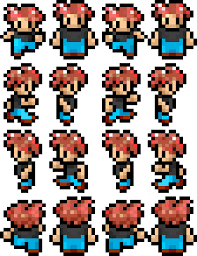
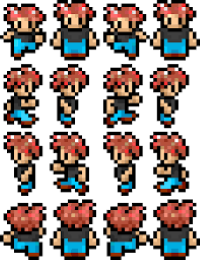
Drill 5 제출 (2017180011 박정환)

diff --git a/move_my_character_with_key.py b/move_my_character_with_key.py
@@ -52,8 +52,8 @@ while walking:
     update_canvas()
     handle_events()
 
-    if dir_x != 0 or dir_y != 0:
-        frame = (frame + 1) % 4
+    # if dir_x != 0 or dir_y != 0:  idle 애니메이션
+    frame = (frame + 1) % 4
 
     x += dir_x * 5
     y += dir_y * 5
